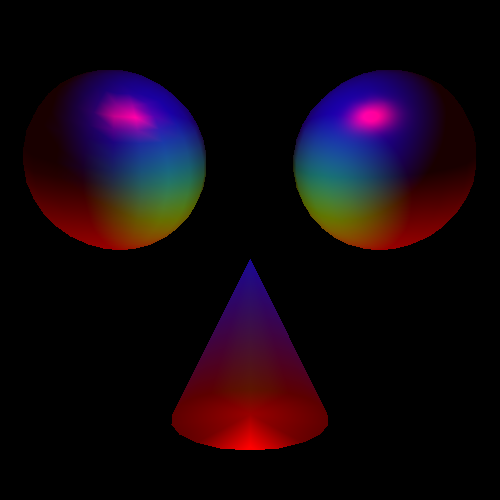
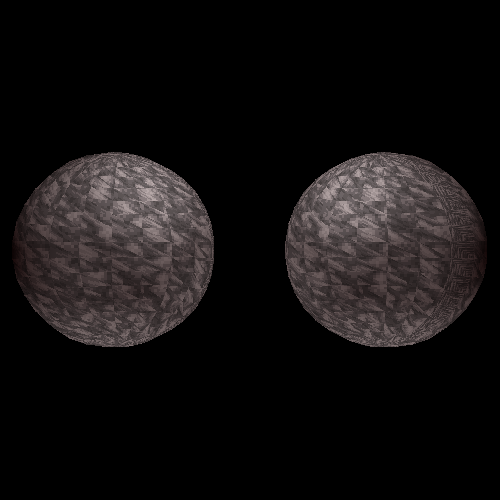
textures (wip)

diff --git a/main.cpp b/main.cpp
@@ -1,5 +1,3 @@
-#include <memory>
-
 #include "TgaBuffer.hpp"
 #include "PngBuffer.hpp"
 #include "Rasterizer.hpp"
@@ -14,65 +12,54 @@ int main() {
 
     Rasterizer rasterizer(new PngBuffer(BUFFER_WIDTH, BUFFER_HEIGHT, BG_COLOR));
 
-    std::unique_ptr<VertexLightShader> vertexShader = std::make_unique<VertexLightShader>();
     std::unique_ptr<SimpleShader> simpleShader = std::make_unique<SimpleShader>();
 
     // AMBIENT LIGHT
-    vertexShader->setAmbientLight(AmbientLight{Vector3{1.f, 0.f, 0.f}, 0.1f});
     simpleShader->setAmbientLight(AmbientLight{Vector3{1.f, 0.f, 0.f}, 0.1f});
     
     // DIRECTIONAL LIGHT
     DirectionalLight directionalLight;
     directionalLight.direction = Vector3{0, -1, 0};
-    directionalLight.lightColor = Vector3{1.f, 0.f, 0.f};
-    directionalLight.diffuseStrength = 0.5f;
-    directionalLight.specularStrength = 1.f;
-    vertexShader->setDirectionalLight(directionalLight);
+    directionalLight.lightColor = Vector3{1.f, 1.f, 1.f};
+    directionalLight.diffuseStrength = 0.8f;
+    directionalLight.specularStrength = 0.f;
     simpleShader->setDirectionalLight(directionalLight);
 
     // POINT LIGHT
     PointLight pointLight;
-    pointLight.position = Vector3{0.f, -1.5f, 0.f};
-    pointLight.lightColor = Vector3{0.f, 0.f, 1.f};
-    pointLight.diffuseStrength = 0.7f;
+    pointLight.position = Vector3{-1.5f, -1.5f, 0.f};
+    pointLight.lightColor = Vector3{1.f, 1.f, 1.f};
+    pointLight.diffuseStrength = 0.8f;
     pointLight.specularStrength = 0.0f;
-    vertexShader->addPointLight(pointLight);
     simpleShader->addPointLight(pointLight);
     
     PointLight pointLight2;
-    pointLight2.position = Vector3{0.f, 0.f, 0.5f};
-    pointLight2.lightColor = Vector3{0.f, 1.f, 0.f};
-    pointLight2.diffuseStrength = 0.5f;
+    pointLight2.position = Vector3{1.5f, -1.5f, 0.f};
+    pointLight2.lightColor = Vector3{1.f, 1.f, 1.f};
+    pointLight2.diffuseStrength = 0.8f;
     pointLight2.specularStrength = 0.0f;
-    vertexShader->addPointLight(pointLight2);
     simpleShader->addPointLight(pointLight2);
 
-    vertexShader->setProjection(Matrix4::Perspective(ToRad(60.f), 1.f, 0.01f, 100.f));
-    vertexShader->setView(Matrix4::LookAt(Vector3{0.f, 0.f, 5.f}, Vector3{0.f, 0.f, 0.f}, Vector3{0.f, 1.f, 0.f}));
-    
+    // TEXTURE
+    std::shared_ptr<Texture> cobblestone = std::make_shared<Texture>("../res/textures/cobblestone.png");
+    simpleShader->setTexture(cobblestone);
+
     simpleShader->setProjection(Matrix4::Perspective(ToRad(60.f), 1.f, 0.01f, 100.f));
     simpleShader->setView(Matrix4::LookAt(Vector3{0.f, 0.f, 5.f}, Vector3{0.f, 0.f, 0.f}, Vector3{0.f, 1.f, 0.f}));
 
     Matrix4 model = Matrix4{1};
 
     SphereMesh sphereMesh(16);
-    model = Matrix4::Translation(-1.5f, -1.f, 0.f) *
-            Matrix4::Scale(1.f, 1.f, 1.f);
-    vertexShader->setModel(model);
-    rasterizer.render(&sphereMesh, vertexShader.get());
+    model = Matrix4::Translation(-1.5f, 0.f, 0.f) *
+            Matrix4::Scale(1.1f, 1.1f, 1.1f);
+    simpleShader->setModel(model);
+    rasterizer.render(&sphereMesh, simpleShader.get());
     
     SphereMesh sphereMesh2(16);
-    model = Matrix4::Translation(1.5f, -1.f, 0.f) *
-            Matrix4::Scale(1.f, 1.f, 1.f);
+    model = Matrix4::Translation(1.5f, 0.f, 0.f) *
+            Matrix4::Scale(1.1f, 1.1f, 1.1f);
     simpleShader->setModel(model);
     rasterizer.render(&sphereMesh2, simpleShader.get());
-
-    ConeMesh coneMesh(1.f, 2.f, 20);
-    model = Matrix4::Translation(0.f, 1.f, 0.f) *
-            Matrix4::RotationZ(ToRad(180.f)) *
-            Matrix4::Scale(0.9f, 0.9f, 0.9f);
-    vertexShader->setModel(model);
-    rasterizer.render(&coneMesh, vertexShader.get());
 
     rasterizer.saveToFile();
 

diff --git a/src/Texture.cpp b/src/Texture.cpp
@@ -1,0 +1,49 @@
+#include "Texture.hpp"
+
+#define STB_IMAGE_IMPLEMENTATION
+
+#include "stb_image.h"
+
+Texture::Texture(const std::string& path) : width(0), height(0) {
+
+    int32_t channels;
+
+    unsigned char* texture = stbi_load(path.c_str(), &width, &height, &channels, 3);
+
+    if(texture == nullptr) {
+        std::cout << "Failed to load texture from file " + path << std::endl;
+        return;
+    }
+
+    pixels.resize(width * height);
+    
+    for (int32_t x = 0; x < width; ++x) {
+        for (int32_t y = 0; y < height; ++y) {
+
+            const int32_t byteNumber = 3 * (x + width * y);
+            
+            Color color{};
+            color.bytes[3] = 255.f;
+            color.bytes[2] = texture[byteNumber + 0];
+            color.bytes[1] = texture[byteNumber + 1];
+            color.bytes[0] = texture[byteNumber + 2];
+            
+            setPix(x, y, color.hex);
+        }
+    }
+
+    delete[] texture;
+}
+
+
+Color Texture::sample(const Vector3& uv) const {
+
+    float u = std::clamp(uv.x, 0.f, 1.f);
+    float v = std::clamp(uv.y, 0.f, 1.f);
+    
+    const uint32_t x = std::round(u * (width - 1));
+    const uint32_t y = std::round((height - 1) - v * (height - 1));
+    const uint32_t hex = getPix(x, y);
+    
+    return {hex};
+}

diff --git a/src/mesh/SphereMesh.cpp b/src/mesh/SphereMesh.cpp
@@ -1,6 +1,7 @@
 #include "mesh/SphereMesh.hpp"
 
 SphereMesh::SphereMesh(uint32_t segmentsNum) {
+
     const uint32_t vert = segmentsNum;
     const uint32_t horiz = segmentsNum;
     
@@ -8,6 +9,7 @@ SphereMesh::SphereMesh(uint32_t segmentsNum) {
     const uint32_t tSize = 2 * vert * horiz;
 
     vertices.resize(vSize);
+    uvs.resize(vSize);
 
     for (uint32_t yy = 0; yy <= horiz + 1; ++yy) {
         const float y = std::cos(static_cast<float>(yy) * static_cast<float>(M_PI) / (horiz + 1.f));
@@ -18,6 +20,7 @@ SphereMesh::SphereMesh(uint32_t segmentsNum) {
             const float z = r * std::sin(2.f * M_PI * rr / vert);
 
             vertices[rr + yy * vert] = Vector3{x, y, z};
+            uvs[rr + yy * vert] = Vector3{yy / (horiz + 1.f) , rr / (vert + 1.f), 0.f};
         }
     }
 
@@ -38,6 +41,7 @@ SphereMesh::SphereMesh(uint32_t segmentsNum) {
         }
     }
 
+    uv_indicies.insert(norm_indicies.end(), vert_indicies.begin(), vert_indicies.end());
     norm_indicies.insert(norm_indicies.end(), vert_indicies.begin(), vert_indicies.end());
     normals.resize(vSize, Vector3{0.f});
 

diff --git a/include/Triangle.hpp b/include/Triangle.hpp
@@ -7,14 +7,20 @@ struct Triangle {
     Vector3 A, B, C;
     Vector3 norA, norB, norC;
     Vector3 colorA, colorB, colorC;
+    Vector3 uvA, uvB, uvC;
 
     Triangle() : Triangle(Vector3{0}, Vector3{0}, Vector3{0}) {}
     Triangle(const Vector3& A, const Vector3& B, const Vector3& C)
-            : Triangle(A, B, C, Vector3{0.f}, Vector3{0.f}, Vector3{0.f}) {}
+            : Triangle(A, B, C,
+                Vector3{0.f}, Vector3{0.f}, Vector3{0.f},
+                Vector3{0.f}, Vector3{0.f}, Vector3{0.f}) {}
+    
     Triangle(const Vector3& A, const Vector3& B, const Vector3& C,
-            const Vector3& norA, const Vector3& norB, const Vector3& norC)
+            const Vector3& norA, const Vector3& norB, const Vector3& norC,
+            const Vector3& uvA, const Vector3& uvB, const Vector3& uvC)
             : A(A), B(B), C(C),
               norA(norA), norB(norB), norC(norC),
+              uvA(uvA), uvB(uvB), uvC(uvC),
               colorA(Vector3{0.f}), colorB(Vector3{0.f}), colorC(Vector3{0.f}){}
 
     void applyTransform(const Matrix4& transform) {

diff --git a/include/shader/VertexLightShader.hpp b/include/shader/VertexLightShader.hpp
@@ -11,6 +11,7 @@ class VertexLightShader : public Shader{
             const Vector3& interpolatedPosition,
             const Vector3& interpolatedNormal,
             const Vector3& interpolatedColor,
+            const Vector3& interpolatedUV,
             Vector3& outColor) const override;
 
         void setModel(const Matrix4& newModel) { model = newModel; preProcess(); }
@@ -20,4 +21,6 @@ class VertexLightShader : public Shader{
         void setAmbientLight(const AmbientLight& ambientLight) { this->ambientLight = ambientLight; }
         void setDirectionalLight(const DirectionalLight& directionalLight) { this->directionalLight = directionalLight; }
         void addPointLight(const PointLight& pointLight) { pointLights.push_back(pointLight); }
+
+        void setTexture(const std::shared_ptr<Texture> texture) { this->texture = texture; }
 };

diff --git a/include/shader/SimpleShader.hpp b/include/shader/SimpleShader.hpp
@@ -11,6 +11,7 @@ class SimpleShader : public Shader {
             const Vector3& interpolatedPosition,
             const Vector3& interpolatedNormal,
             const Vector3& interpolatedColor,
+            const Vector3& interpolatedUV,
             Vector3& outColor) const override;
 
         void setModel(const Matrix4& newModel) { model = newModel; preProcess(); }
@@ -20,4 +21,6 @@ class SimpleShader : public Shader {
         void setAmbientLight(const AmbientLight& ambientLight) { this->ambientLight = ambientLight; }
         void setDirectionalLight(const DirectionalLight& directionalLight) { this->directionalLight = directionalLight; }
         void addPointLight(const PointLight& pointLight) { pointLights.push_back(pointLight); }
+
+        void setTexture(const std::shared_ptr<Texture> texture) { this->texture = texture; }
 };

diff --git a/src/mesh/Mesh.cpp b/src/mesh/Mesh.cpp
@@ -3,6 +3,7 @@
 Mesh::Mesh() {}
 
 void Mesh::GetTriangle(uint32_t index, Triangle& triangle) const {
+    
     uint32_t indiceID = index * 3;
 
     const uint32_t v1 = vert_indicies[indiceID];
@@ -20,4 +21,19 @@ void Mesh::GetTriangle(uint32_t index, Triangle& triangle) const {
     triangle.norA = normals[n1];
     triangle.norB = normals[n2];
     triangle.norC = normals[n3];
+
+    if (!uv_indicies.empty()) {
+        const uint32_t uv1 = uv_indicies[indiceID];
+        const uint32_t uv2 = uv_indicies[indiceID + 1];
+        const uint32_t uv3 = uv_indicies[indiceID + 2];
+
+        triangle.uvA = uvs[uv1];
+        triangle.uvB = uvs[uv3];
+        triangle.uvC = uvs[uv2];
+    }
+    else {
+        triangle.uvA = Vector3{0.f};
+        triangle.uvB = Vector3{0.f};
+        triangle.uvC = Vector3{0.f};
+    }
 }

diff --git a/src/Rasterizer.cpp b/src/Rasterizer.cpp
@@ -116,8 +116,9 @@ void Rasterizer::colorTriangle(const Vector3& p, const Triangle& t, const Shader
         Vector3 interpolizedPos = t.A * barU + t.B  * barV + t.C * barW;
         Vector3 interpolizedNor = (t.norA * barU + t.norB  * barV + t.norC * barW).normalize();
         Vector3 interpolizedColor = t.colorA * barU + t.colorB  * barV + t.colorC * barW;
+        Vector3 interpolatedUV = barU * t.uvA / t.A.z + barV * t.uvB / t.B.z + barW * t.uvC / t.C.z;    
 
-        shader->pixelShader(interpolizedPos, interpolizedNor, interpolizedColor, pixelColor);
+        shader->pixelShader(interpolizedPos, interpolizedNor, interpolizedColor, interpolatedUV, pixelColor);
 
         uint32_t pixelColorHex = Color::FromVector(pixelColor).hex;
 

diff --git a/src/shader/SimpleShader.cpp b/src/shader/SimpleShader.cpp
@@ -17,6 +17,7 @@ void SimpleShader::pixelShader(
     const Vector3& interpolatedPosition,
     const Vector3& interpolatedNormal,
     const Vector3& interpolatedColor,
+    const Vector3& interpolatedUV,
     Vector3& outColor) const {
 
         const Vector3 ambientColor = ambientLight.color * ambientLight.strength;
@@ -40,5 +41,11 @@ void SimpleShader::pixelShader(
             calculateLight(&pointLight, lightDir);
         }
 
-        outColor = (ambientColor + lightColor).clamp_0_1();
+        Vector3 objColor{1.f};
+
+        if(texture) {
+            objColor = texture->sample(interpolatedUV).ToVector();
+        }
+
+        outColor = (ambientColor + lightColor).mul(objColor).clamp_0_1();
 }

diff --git a/include/shader/Shader.hpp b/include/shader/Shader.hpp
@@ -6,6 +6,7 @@
 #include "light/DirectionalLight.hpp"
 #include "light/PointLight.hpp"
 #include "Utils.hpp"
+#include "Texture.hpp"
 
 class Shader {
 
@@ -15,6 +16,7 @@ class Shader {
         AmbientLight ambientLight;
         DirectionalLight directionalLight;
         std::vector<PointLight> pointLights;
+        std::shared_ptr<Texture> texture;
 
     public:
         virtual void preProcess() = 0;
@@ -23,5 +25,6 @@ class Shader {
                 const Vector3& interpolatedPosition,
                 const Vector3& interpolatedNormal,
                 const Vector3& interpolatedColor,
+                const Vector3& interpolatedUV,
                 Vector3& outColor) const = 0;
 };

diff --git a/include/Texture.hpp b/include/Texture.hpp
@@ -1,0 +1,16 @@
+#pragma once
+
+#include "Color.hpp"
+
+class Texture {
+
+    private:
+        std::vector<uint32_t> pixels;
+        int width, height;
+    
+    public:
+        Texture(const std::string& path);
+        Color sample(const Vector3& uv) const;
+        uint32_t getPix(int x, int y) const { return pixels[x + width * y]; }
+        void setPix(int x, int y, uint32_t color) { pixels[x + width * y] = color; }
+};

diff --git a/src/shader/VertexLightShader.cpp b/src/shader/VertexLightShader.cpp
@@ -48,6 +48,7 @@ void VertexLightShader::pixelShader(
     const Vector3& interpolatedPosition,
     const Vector3& interpolatedNormal,
     const Vector3& interpolatedColor,
+    const Vector3& interpolatedUV,
     Vector3& outColor) const {
     
     // SHADING DONE IN VERTEXES, RETURNING INTERPOLATED COLOR
